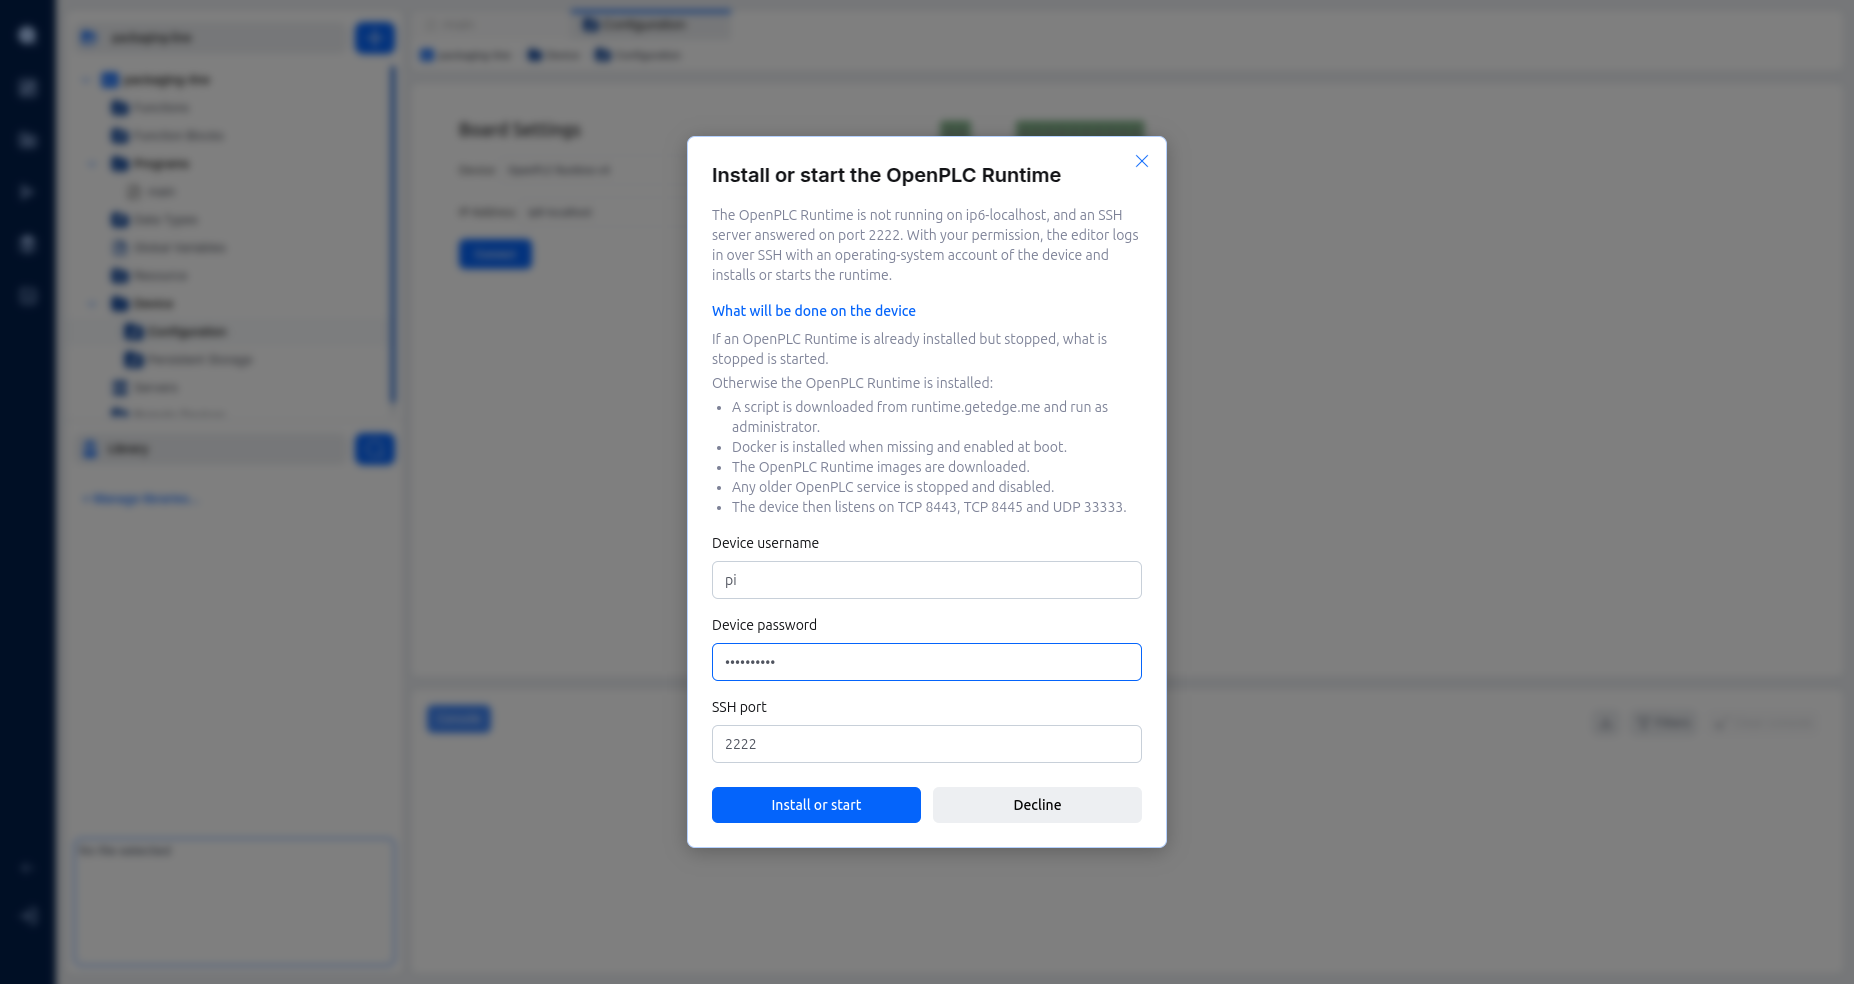
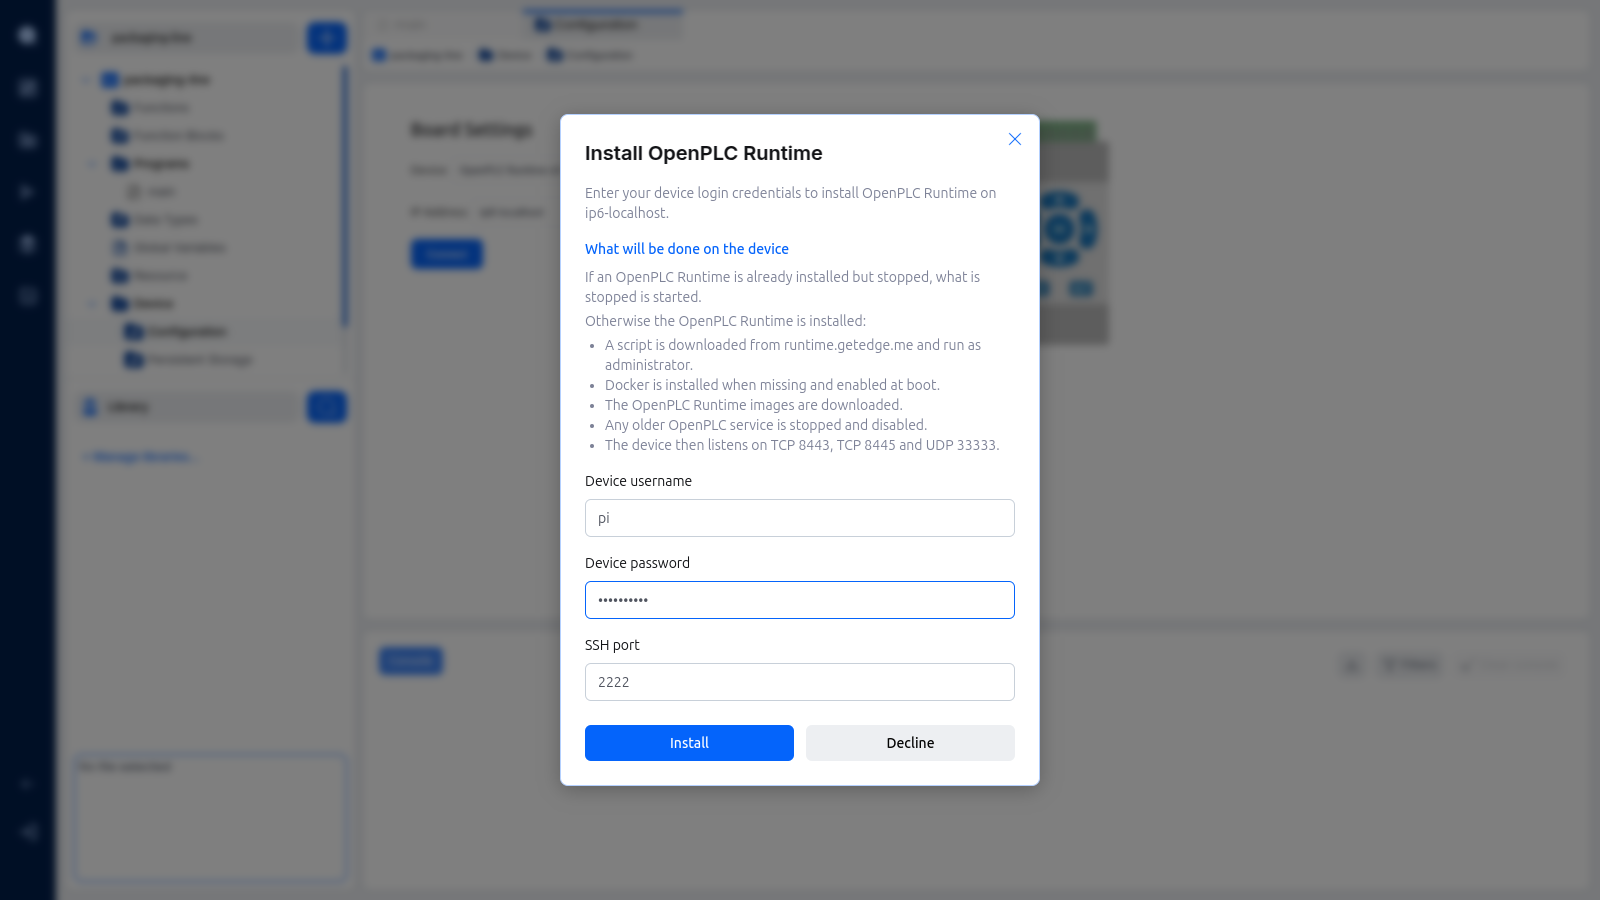
docs(editor): use the new wording of the runtime install offer over SSH

diff --git a/docs/openplc-editor/installing-runtime-over-ssh.md b/docs/openplc-editor/installing-runtime-over-ssh.md
@@ -4,7 +4,7 @@ When you press **Connect** and no OpenPLC Runtime answers on your device, the ed
 
 > **Note:** This applies to the desktop app only. In the web editor, a device with no running runtime keeps showing the usual **No Response** message.
 
-![Install or start the OpenPLC Runtime dialog with the list of what will be done on the device and the device account filled in](images/runtime-ssh-install-offer.png)
+![Install OpenPLC Runtime dialog with the list of what will be done on the device and the device account filled in](images/runtime-ssh-install-offer.png)
 
 ---
 
@@ -26,12 +26,12 @@ You need:
 
 1. In the project tree, expand **Device** and click **Configuration**.
 2. Check that the **IP Address** field holds your device's address, then click **Connect**.
-3. When the runtime does not answer but the device's SSH server does, the **Install or start the OpenPLC Runtime** dialog opens. It names the device and the SSH port that answered.
+3. When the runtime does not answer but the device's SSH server does, the **Install OpenPLC Runtime** dialog opens. It names the device, and its **SSH port** field shows the port that answered.
 4. Click **What will be done on the device** to read the list of changes before you agree:
    - If an OpenPLC Runtime is already installed but stopped, it is started.
    - Otherwise the runtime is installed: a script is downloaded from runtime.getedge.me and run as administrator, Docker is installed when missing, the runtime images are downloaded, any older OpenPLC service is stopped and disabled, and the device then listens on TCP 8443, TCP 8445 and UDP 33333.
 5. Fill in **Device username** and **Device password** with an account of the device. Change **SSH port** only if the device's SSH server listens on another port.
-6. Click **Install or start**. To leave without changing anything, click **Decline**.
+6. Click **Install**. If the runtime is already installed but stopped, the same button starts it instead. To leave without changing anything, click **Decline**.
 
 The editor logs in, inspects the device and then installs or starts the runtime. While it works, the dialog shows the current step, the latest line written by the installer and the elapsed time. Every installer line also goes to the editor **Console**.
 
